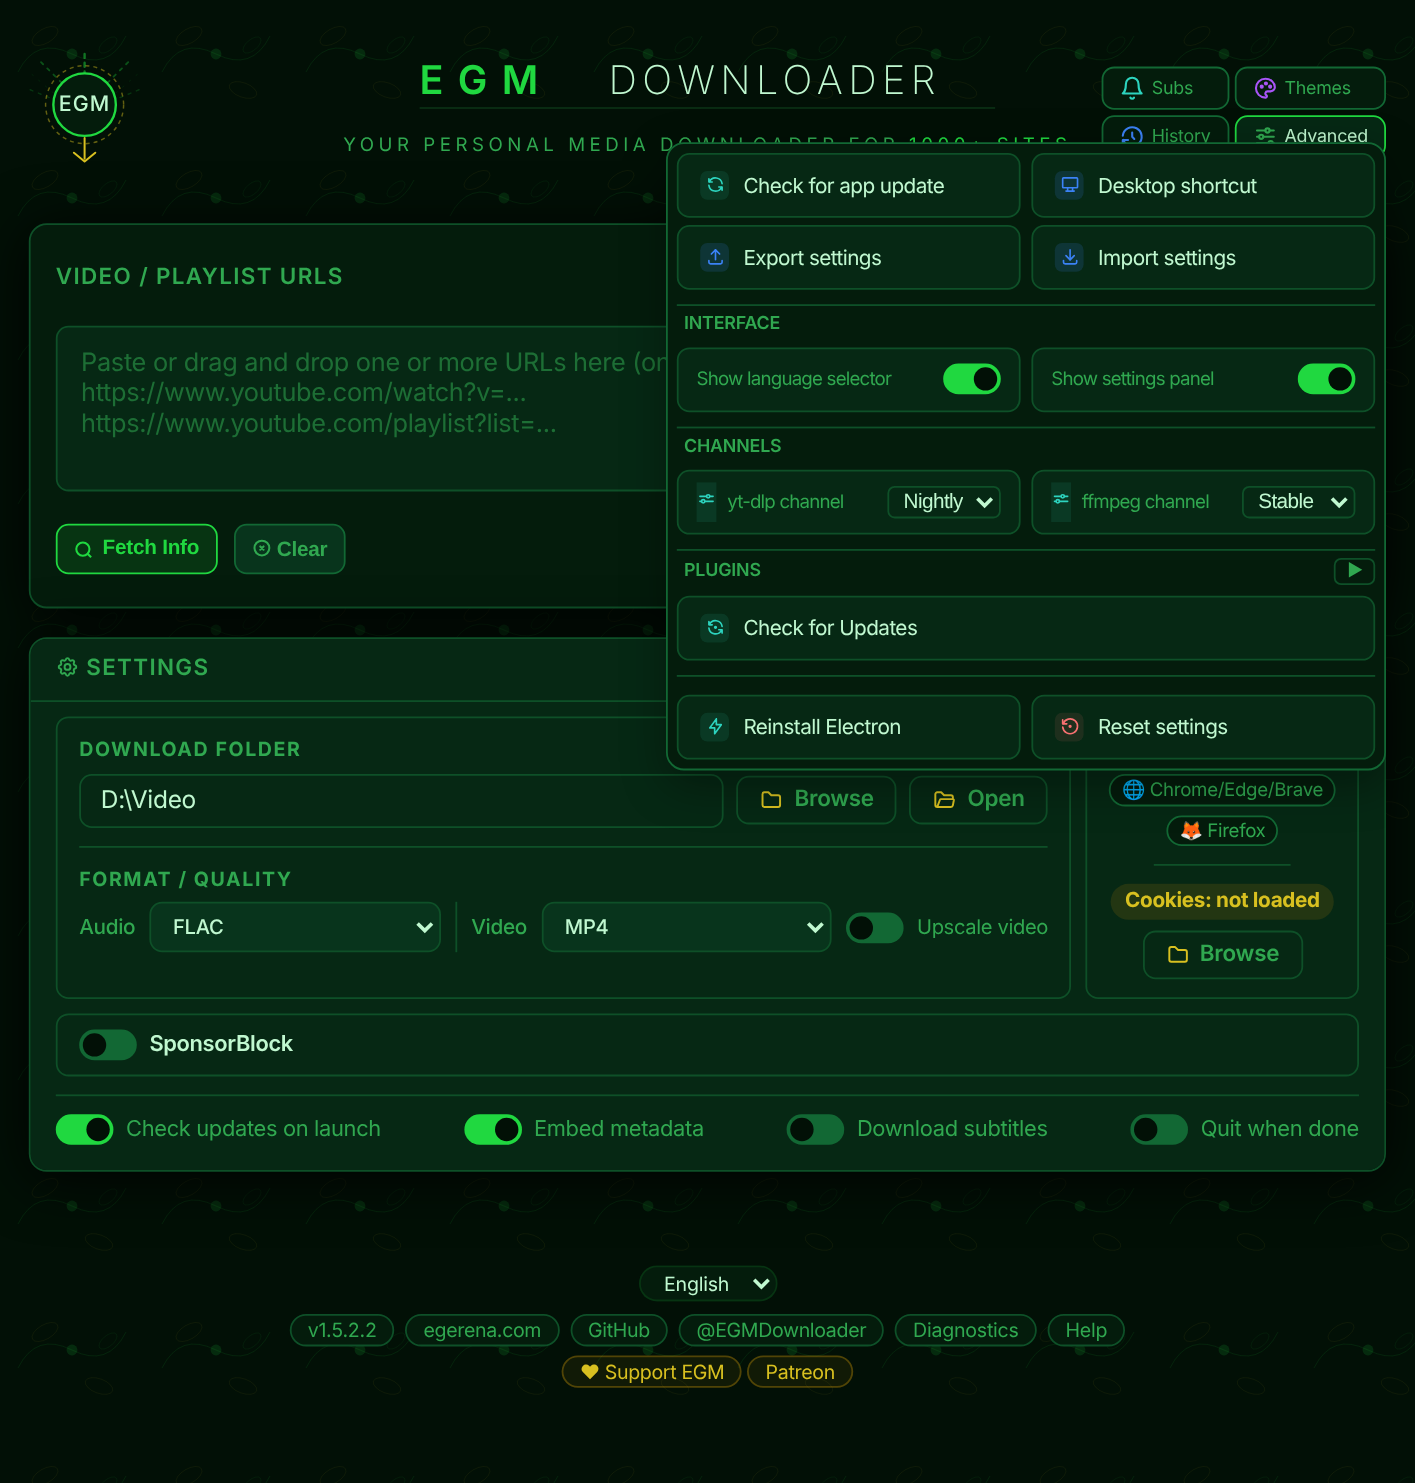
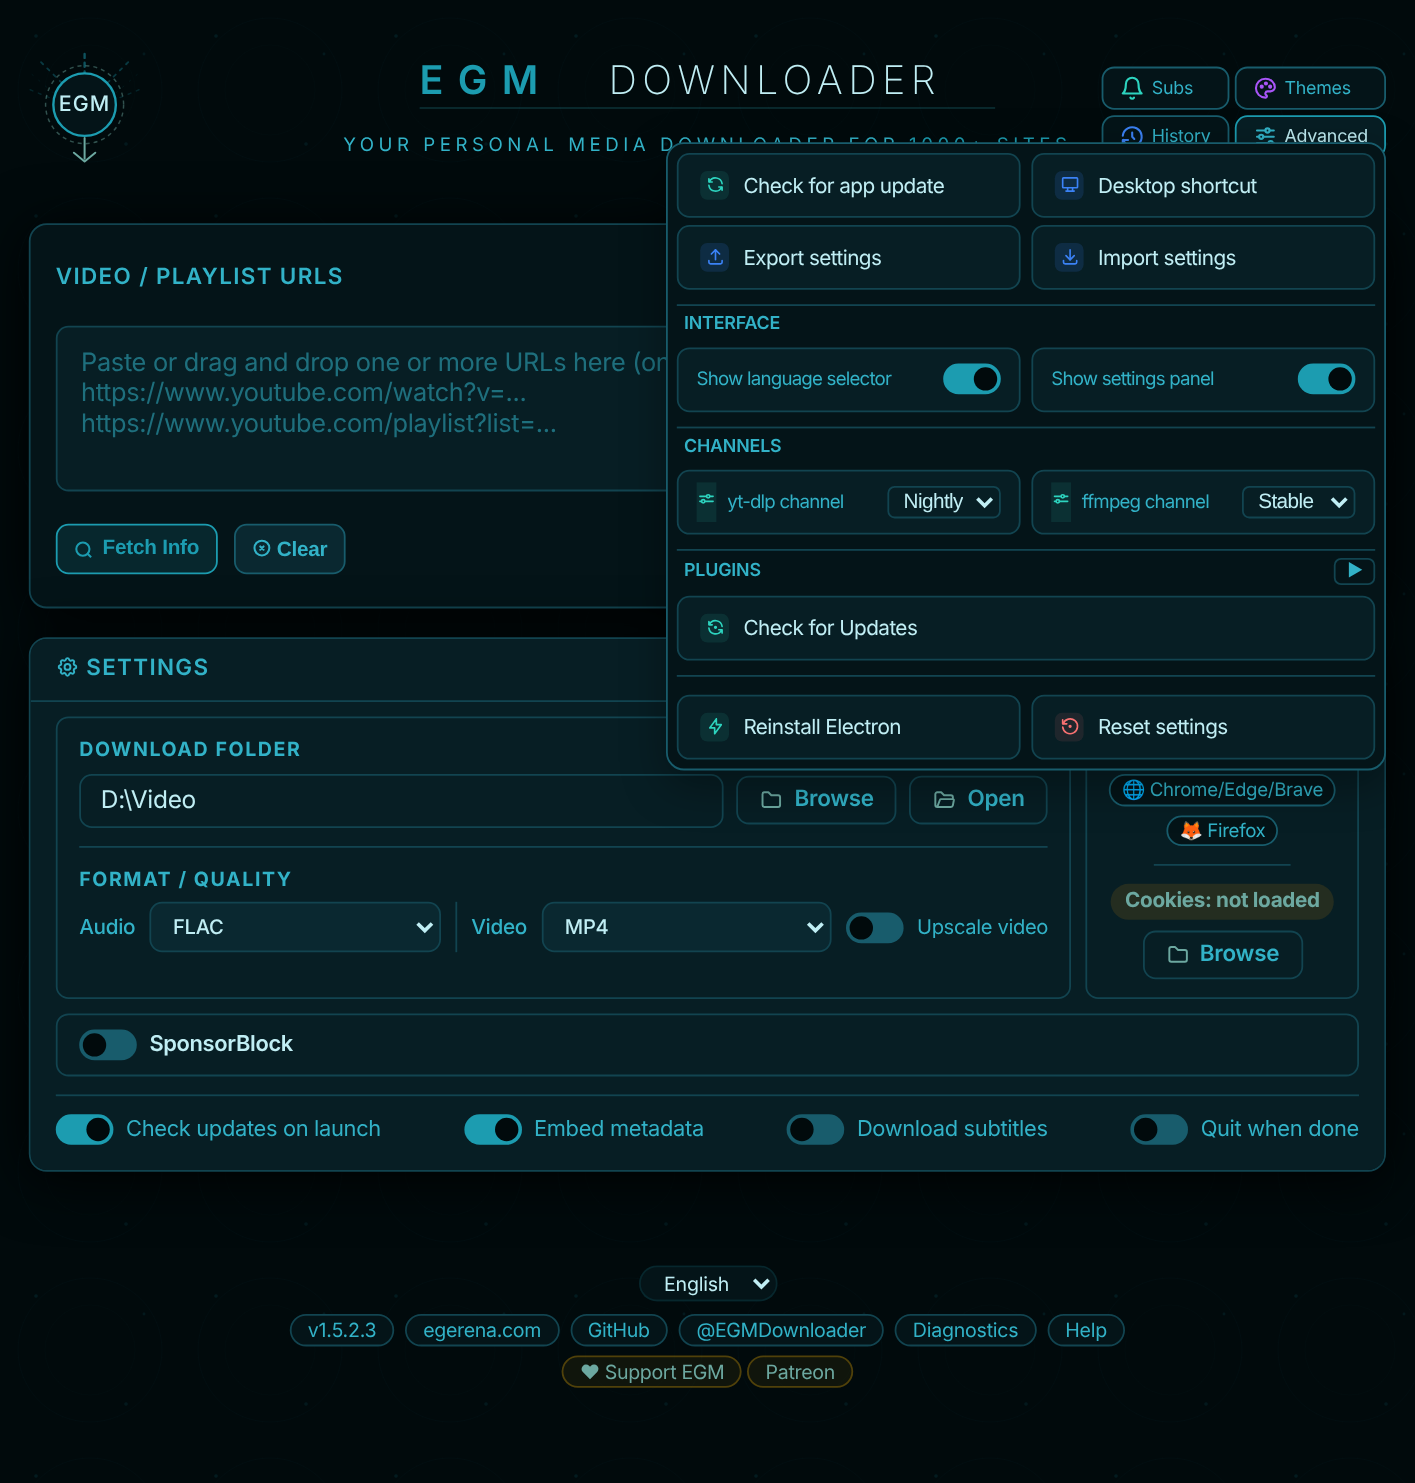
release: v1.5.2.3 Build 176 — SNAKE EYES PART II, screenshots, SHA256s, CONTRIBUTING

diff --git a/README.md b/README.md
@@ -86,7 +86,7 @@ A side by side look at one well known alternative, using details you can check y
 
 https://github.com/user-attachments/assets/ccfeb78d-4287-40e8-aced-9bebadb11184
 
-> 📸 *Screenshots of v1.5.2.2, SNAKE EYES. The UI is identical across Windows, macOS, and Linux.*
+> 📸 *Screenshots of v1.5.2.3, SNAKE EYES PART II. The UI is identical across Windows, macOS, and Linux.*
 
 <table>
   <tr>
@@ -95,12 +95,12 @@ https://github.com/user-attachments/assets/ccfeb78d-4287-40e8-aced-9bebadb11184
       <br/><sub><b>Splash Screen</b></sub>
     </td>
     <td align="center" width="33%">
-      <a href="screenshots/02-main-ui.png"><img src="screenshots/02-main-ui.png" width="260" alt="Main UI in Arabic, Anubis theme"/></a>
-      <br/><sub><b>Main UI</b> (Arabic, Anubis theme)</sub>
+      <a href="screenshots/02-main-ui.png"><img src="screenshots/02-main-ui.png" width="260" alt="Main UI in Arabic, Marrakech theme"/></a>
+      <br/><sub><b>Main UI</b> (Arabic, Marrakech theme)</sub>
     </td>
     <td align="center" width="33%">
-      <a href="screenshots/03-advanced-panel.png"><img src="screenshots/03-advanced-panel.png" width="260" alt="Advanced Panel, Quetzalcoatl theme"/></a>
-      <br/><sub><b>Advanced Panel</b> (Quetzalcoatl theme)</sub>
+      <a href="screenshots/03-advanced-panel.png"><img src="screenshots/03-advanced-panel.png" width="260" alt="Advanced Panel, Teal Abyss theme"/></a>
+      <br/><sub><b>Advanced Panel</b> (Teal Abyss theme)</sub>
     </td>
   </tr>
 </table>
@@ -108,25 +108,12 @@ https://github.com/user-attachments/assets/ccfeb78d-4287-40e8-aced-9bebadb11184
 <table>
   <tr>
     <td align="center" width="50%">
-      <a href="screenshots/12-card-order.png"><img src="screenshots/12-card-order.png" width="308" alt="Main window with the Settings panel moved above the links card, Red Planet theme"/></a>
-      <br/><sub><b>Card Order</b> (Red Planet theme)</sub>
+      <a href="screenshots/12-card-order.png"><img src="screenshots/12-card-order.png" width="308" alt="Main window with the Settings panel moved above the links card, The Grid theme"/></a>
+      <br/><sub><b>Card Order</b> (The Grid theme)</sub>
     </td>
     <td align="center" width="50%">
-      <a href="screenshots/13-card-drag.png"><img src="screenshots/13-card-drag.png" width="308" alt="Dragging the Settings panel up over the links card by its handle, Antimatter theme"/></a>
-      <br/><sub><b>Card Order, Dragging</b> (Antimatter theme)</sub>
-    </td>
-  </tr>
-</table>
-
-<table>
-  <tr>
-    <td align="center" width="50%">
-      <a href="screenshots/08-live-streams.png"><img src="screenshots/08-live-streams.png" width="271" alt="Live streams recording and a download running, Disco Fever theme"/></a>
-      <br/><sub><b>Live Streams</b> (Disco Fever theme)</sub>
-    </td>
-    <td align="center" width="50%">
-      <a href="screenshots/09-live-reconnecting.png"><img src="screenshots/09-live-reconnecting.png" width="371" alt="A live stream reconnecting, Ice Giant theme"/></a>
-      <br/><sub><b>Live Stream Reconnecting</b> (Ice Giant theme)</sub>
+      <a href="screenshots/13-card-drag.png"><img src="screenshots/13-card-drag.png" width="308" alt="Dragging the Settings panel up over the links card by its handle, Stop Motion theme"/></a>
+      <br/><sub><b>Card Order, Dragging</b> (Stop Motion theme)</sub>
     </td>
   </tr>
 </table>
@@ -134,25 +121,12 @@ https://github.com/user-attachments/assets/ccfeb78d-4287-40e8-aced-9bebadb11184
 <table>
   <tr>
     <td align="center" width="50%">
-      <a href="screenshots/10-quit-when-done.png"><img src="screenshots/10-quit-when-done.png" width="308" alt="Quit when done countdown, Ocean theme"/></a>
-      <br/><sub><b>Quit When Done</b> (Ocean theme)</sub>
+      <a href="screenshots/08-live-streams.png"><img src="screenshots/08-live-streams.png" width="271" alt="Live streams recording and a download running, Neon Noir theme"/></a>
+      <br/><sub><b>Live Streams</b> (Neon Noir theme)</sub>
     </td>
     <td align="center" width="50%">
-      <a href="screenshots/06-advanced-plugins.png"><img src="screenshots/06-advanced-plugins.png" width="308" alt="Advanced Panel with the plugins list, Acid theme"/></a>
-      <br/><sub><b>Advanced Panel, Plugins</b> (Acid theme)</sub>
-    </td>
-  </tr>
-</table>
-
-<table>
-  <tr>
-    <td align="center" width="50%">
-      <a href="screenshots/04-all-themes.png"><img src="screenshots/04-all-themes.png" width="459" alt="All Themes, Electric Dawn theme"/></a>
-      <br/><sub><b>All Themes</b> (Electric Dawn theme)</sub>
-    </td>
-    <td align="center" width="50%">
-      <a href="screenshots/11-theme-creator.png"><img src="screenshots/11-theme-creator.png" width="320" alt="Theme Creator with a custom theme, Cobalt Sand"/></a>
-      <br/><sub><b>Theme Creator</b> (custom Cobalt Sand theme)</sub>
+      <a href="screenshots/09-live-reconnecting.png"><img src="screenshots/09-live-reconnecting.png" width="371" alt="A live stream reconnecting, Event Horizon theme"/></a>
+      <br/><sub><b>Live Stream Reconnecting</b> (Event Horizon theme)</sub>
     </td>
   </tr>
 </table>
@@ -160,12 +134,38 @@ https://github.com/user-attachments/assets/ccfeb78d-4287-40e8-aced-9bebadb11184
 <table>
   <tr>
     <td align="center" width="50%">
-      <a href="screenshots/05-subscriptions.png"><img src="screenshots/05-subscriptions.png" width="444" alt="Subscriptions, Euphoria theme"/></a>
-      <br/><sub><b>Subscriptions</b> (Euphoria theme)</sub>
+      <a href="screenshots/10-quit-when-done.png"><img src="screenshots/10-quit-when-done.png" width="308" alt="Quit when done countdown, Odd Cab theme"/></a>
+      <br/><sub><b>Quit When Done</b> (Odd Cab theme)</sub>
     </td>
     <td align="center" width="50%">
-      <a href="screenshots/07-download-history.png"><img src="screenshots/07-download-history.png" width="334" alt="Download History, Hangang theme"/></a>
-      <br/><sub><b>Download History</b> (Hangang theme)</sub>
+      <a href="screenshots/06-advanced-plugins.png"><img src="screenshots/06-advanced-plugins.png" width="308" alt="Advanced Panel with the plugins list, Mako Reactor theme"/></a>
+      <br/><sub><b>Advanced Panel, Plugins</b> (Mako Reactor theme)</sub>
+    </td>
+  </tr>
+</table>
+
+<table>
+  <tr>
+    <td align="center" width="50%">
+      <a href="screenshots/04-all-themes.png"><img src="screenshots/04-all-themes.png" width="459" alt="All Themes, Haze theme"/></a>
+      <br/><sub><b>All Themes</b> (Haze theme)</sub>
+    </td>
+    <td align="center" width="50%">
+      <a href="screenshots/11-theme-creator.png"><img src="screenshots/11-theme-creator.png" width="320" alt="Theme Creator with a custom theme, Peach Slate"/></a>
+      <br/><sub><b>Theme Creator</b> (custom Peach Slate theme)</sub>
+    </td>
+  </tr>
+</table>
+
+<table>
+  <tr>
+    <td align="center" width="50%">
+      <a href="screenshots/05-subscriptions.png"><img src="screenshots/05-subscriptions.png" width="444" alt="Subscriptions, Dark World theme"/></a>
+      <br/><sub><b>Subscriptions</b> (Dark World theme)</sub>
+    </td>
+    <td align="center" width="50%">
+      <a href="screenshots/07-download-history.png"><img src="screenshots/07-download-history.png" width="334" alt="Download History, Liminal theme"/></a>
+      <br/><sub><b>Download History</b> (Liminal theme)</sub>
     </td>
   </tr>
 </table>
@@ -176,7 +176,7 @@ https://github.com/user-attachments/assets/ccfeb78d-4287-40e8-aced-9bebadb11184
 🔗 **Platform page:** [windows.egerena.com](https://windows.egerena.com)
 **Latest:** v1.5.2.3  
 **Download:** [EGMd.zip](https://egerena.com/apps/EGMd.zip) (686 KB · ~800 MB after install)  
[2 lines of base64/hex data omitted]
 **Install:** Extract `EGMd.zip`, run `egm-setup.exe` and follow the installer. Then paste a video URL, fetch the info, and click Download.  
 **Requirements:** Windows 10/11 (64-bit) · **Python 3.11+** — install from [python.org](https://www.python.org/downloads/) and tick "Add Python to PATH"  
 **Code Signed:** Installer is signed with an IV code signing certificate. SmartScreen may show a warning on first run until the certificate builds reputation.
@@ -184,8 +184,8 @@ https://github.com/user-attachments/assets/ccfeb78d-4287-40e8-aced-9bebadb11184
 
 ### Windows Portable
 **Latest:** v1.5.2.3  
-**Download:** [EGMd-portable.zip](https://egerena.com/apps/EGMd-portable.zip) (702 KB · ~1 GB after first run)  
[1 lines of base64/hex data omitted]
+**Download:** [EGMd-portable.zip](https://egerena.com/apps/EGMd-portable.zip) (701 KB · ~1 GB after first run)  
[1 lines of base64/hex data omitted]
 **Install:** Extract `EGMd-portable.zip` and run `EGM Downloader.exe`. Settings and data stay in the same folder, so you can take it anywhere.  
 **Requirements:** Windows 10/11 (64-bit) · **Python 3.10+** — install from [python.org](https://www.python.org/downloads/) and tick “Add Python to PATH”  
 **No installer, no registry** — runs from any folder or USB drive (system Python 3.10+ is used only to bootstrap; the app then downloads a private Python and runs on that. Node, Electron, ffmpeg & Deno are fetched on first run, and a newer Electron after an app update that needs one)  
@@ -196,7 +196,7 @@ https://github.com/user-attachments/assets/ccfeb78d-4287-40e8-aced-9bebadb11184
 🔗 **Platform page:** [mac.egerena.com](https://mac.egerena.com)
 **Latest:** v1.5.2.3  
 **Download:** [EGMdM.zip](https://egerena.com/apps/EGMdM.zip) (145 MB · ~300 MB after install)  
[2 lines of base64/hex data omitted]
 **Install:** Extract `EGMdM.zip`, open the `.dmg`, drag "EGM Downloader" to Applications, and launch it.  
 **Requirements:** macOS 13.0 (Ventura) or later · Apple Silicon (M1–M5) only  
 **Signed & Notarized:** This build is Apple notarized — runs without Gatekeeper warnings
@@ -206,7 +206,7 @@ https://github.com/user-attachments/assets/ccfeb78d-4287-40e8-aced-9bebadb11184
 🔗 **Platform page:** [linux.egerena.com](https://linux.egerena.com)
 **Latest:** v1.5.2.3  
 **Download:** [EGMdL.zip](https://egerena.com/apps/EGMdL.zip) (172 MB · ~300 MB after install)  
[2 lines of base64/hex data omitted]
 **Install:** Extract `EGMdL.zip`, make it executable with `chmod +x "EGM Downloader.AppImage"`, then double-click to launch (or run it from a terminal).  
 **Format:** AppImage (Universal)  
 **Supported Distros:** Ubuntu 20.04+, Mint 20+, Pop!_OS, Fedora 39+, Arch, and more

diff --git a/CONTRIBUTING.md b/CONTRIBUTING.md
@@ -62,7 +62,7 @@ Steps:
 Expected: All videos download
 Actual: Only first 50 videos download
 
-Environment: Windows 11, EGM Downloader v1.5.2.2
+Environment: Windows 11, EGM Downloader v1.5.2.3
 ```
 
 ### Suggesting Features
